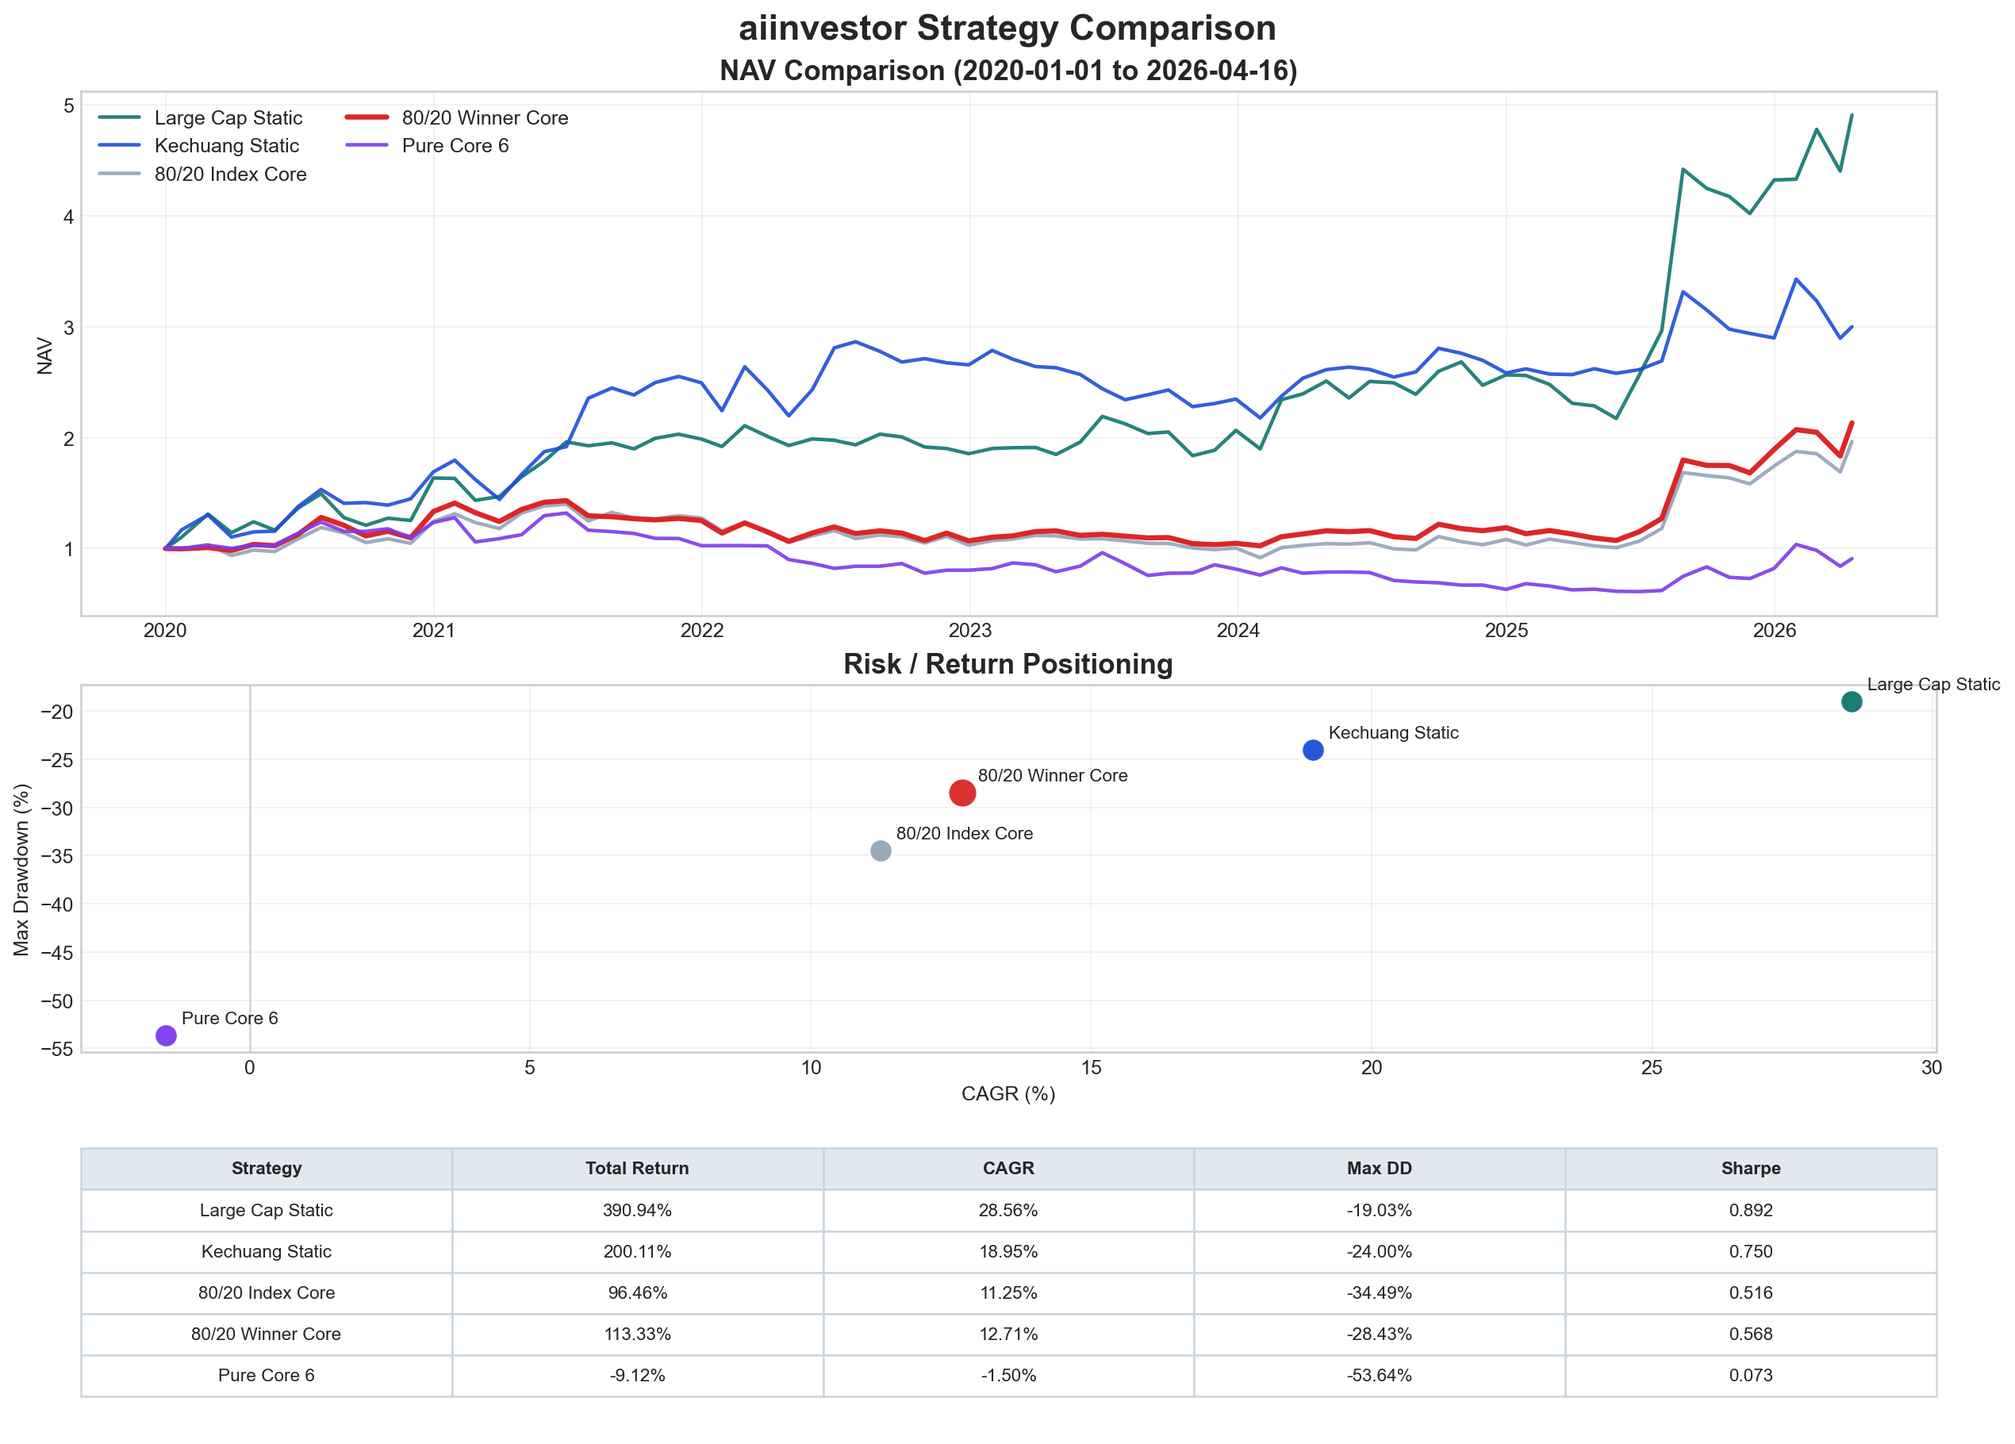
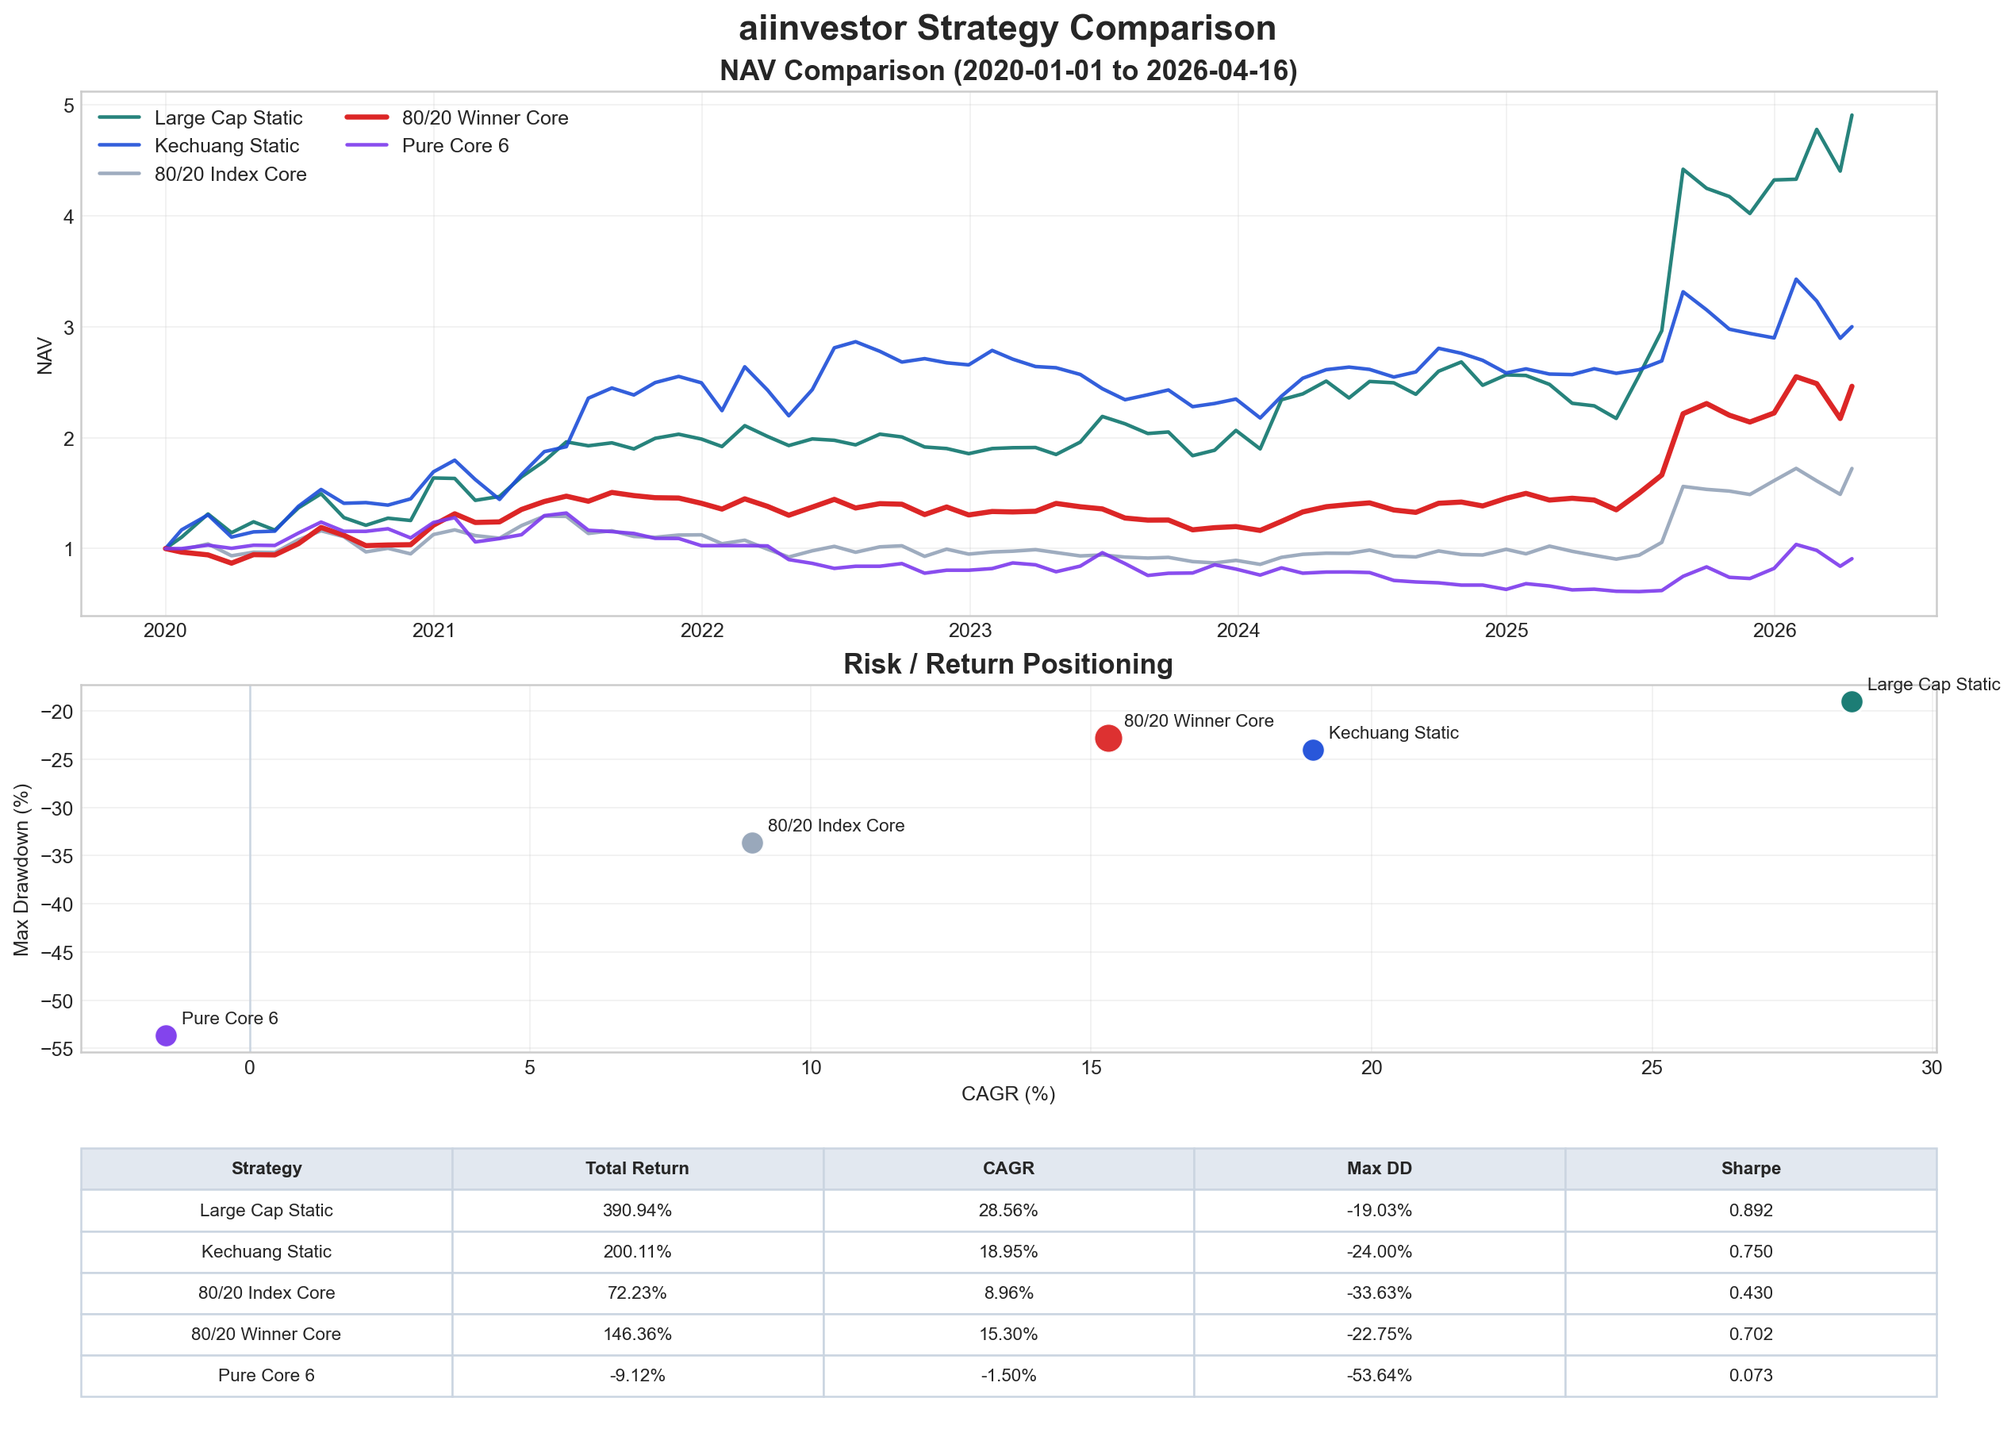
Improve winner core concentration and offline fallback

diff --git a/backtest_marketcap_etf.py b/backtest_marketcap_etf.py
@@ -61,16 +61,19 @@ PROMOTION_MIN_STREAK = 3
 DEMOTION_MIN_STREAK = 2
 PROMOTED_CORE_DEMOTION_MIN_STREAK = 3
 FAST_PROMOTION_MIN_STREAK = 2
-FAST_PROMOTION_PERCENTILE = 0.05
-FAST_PROMOTION_AMOUNT_SURGE_RATIO = 1.20
+FAST_PROMOTION_PERCENTILE = 0.08
+FAST_PROMOTION_AMOUNT_SURGE_RATIO = 1.05
 CORE_MAX_HOLDINGS = 10
-EXPLORE_MAX_HOLDINGS = 20
-SEED_MAX_HOLDINGS = 10
-WINNER_CORE_STABLE_SHARE = 0.65
-WINNER_CORE_PROMOTED_SHARE = 0.35
-STABLE_CORE_MAX_HOLDINGS = 6
-PROMOTED_CORE_MAX_HOLDINGS = 4
-PROMOTED_CORE_STAGE_RAMP = {1: 0.45, 2: 0.75}
+EXPLORE_MAX_HOLDINGS = 12
+SEED_MAX_HOLDINGS = 6
+WINNER_CORE_STABLE_SHARE = 0.35
+WINNER_CORE_PROMOTED_SHARE = 0.65
+STABLE_CORE_MAX_HOLDINGS = 4
+PROMOTED_CORE_MAX_HOLDINGS = 6
+PROMOTED_CORE_STAGE_RAMP = {1: 0.75, 2: 1.00}
+TOTAL_PORTFOLIO_MAX_HOLDINGS = 18
+TOTAL_PORTFOLIO_MIN_WEIGHT = 0.005
+FORCE_EXIT_WEIGHT_THRESHOLD = 0.0005
 MAX_RETRIES = 5
 RETRY_BASE_DELAY = 1.5
 FLOAT_FORMAT = "%.8f"
@@ -236,13 +239,19 @@ def load_or_fetch_trade_calendar(pro, start_date: pd.Timestamp, end_date: pd.Tim
         if cached_start <= start_date and cached_end >= end_date:
             return cached
 
-    fetched = call_tushare_with_retry(
-        pro.trade_cal,
-        exchange="SSE",
-        start_date=start_date.strftime("%Y%m%d"),
-        end_date=end_date.strftime("%Y%m%d"),
-        fields="exchange,cal_date,is_open,pretrade_date",
-    )
+    try:
+        fetched = call_tushare_with_retry(
+            pro.trade_cal,
+            exchange="SSE",
+            start_date=start_date.strftime("%Y%m%d"),
+            end_date=end_date.strftime("%Y%m%d"),
+            fields="exchange,cal_date,is_open,pretrade_date",
+        )
+    except RuntimeError:
+        if not cached.empty:
+            print("[Warn] trade_calendar 增量更新失败，回退使用本地缓存。")
+            return cached.reset_index(drop=True)
+        raise
     fetched["cal_date"] = pd.to_datetime(fetched["cal_date"], format="%Y%m%d", errors="coerce")
     calendar = fetched.sort_values("cal_date").drop_duplicates(subset=["cal_date"]).reset_index(drop=True)
     save_csv(calendar, cache_path)
@@ -268,12 +277,18 @@ def load_or_fetch_daily(pro, ts_code: str, start_date: pd.Timestamp, end_date: p
             return cached.reset_index(drop=True)
         fetch_from = latest_cached + pd.Timedelta(days=1)
 
-    fetched = call_tushare_with_retry(
-        pro.daily,
-        ts_code=ts_code,
-        start_date=fetch_from.strftime("%Y%m%d"),
-        end_date=end_date.strftime("%Y%m%d"),
-    )
+    try:
+        fetched = call_tushare_with_retry(
+            pro.daily,
+            ts_code=ts_code,
+            start_date=fetch_from.strftime("%Y%m%d"),
+            end_date=end_date.strftime("%Y%m%d"),
+        )
+    except RuntimeError:
+        if not cached.empty:
+            print(f"[Warn] {ts_code} daily 增量更新失败，回退使用本地缓存。")
+            return cached.reset_index(drop=True)
+        raise
 
     if not fetched.empty:
         fetched["trade_date"] = pd.to_datetime(fetched["trade_date"], format="%Y%m%d", errors="coerce")
@@ -303,12 +318,18 @@ def load_or_fetch_adj_factor(pro, ts_code: str, start_date: pd.Timestamp, end_da
             return cached.reset_index(drop=True)
         fetch_from = latest_cached + pd.Timedelta(days=1)
 
-    fetched = call_tushare_with_retry(
-        pro.adj_factor,
-        ts_code=ts_code,
-        start_date=fetch_from.strftime("%Y%m%d"),
-        end_date=end_date.strftime("%Y%m%d"),
-    )
+    try:
+        fetched = call_tushare_with_retry(
+            pro.adj_factor,
+            ts_code=ts_code,
+            start_date=fetch_from.strftime("%Y%m%d"),
+            end_date=end_date.strftime("%Y%m%d"),
+        )
+    except RuntimeError:
+        if not cached.empty:
+            print(f"[Warn] {ts_code} adj_factor 增量更新失败，回退使用本地缓存。")
+            return cached.reset_index(drop=True)
+        raise
 
     if not fetched.empty:
         fetched["trade_date"] = pd.to_datetime(fetched["trade_date"], format="%Y%m%d", errors="coerce")
@@ -338,13 +359,19 @@ def load_or_fetch_daily_basic(pro, ts_code: str, start_date: pd.Timestamp, end_d
             return cached.reset_index(drop=True)
         fetch_from = latest_cached + pd.Timedelta(days=1)
 
-    fetched = call_tushare_with_retry(
-        pro.daily_basic,
-        ts_code=ts_code,
-        start_date=fetch_from.strftime("%Y%m%d"),
-        end_date=end_date.strftime("%Y%m%d"),
-        fields="ts_code,trade_date,total_mv",
-    )
+    try:
+        fetched = call_tushare_with_retry(
+            pro.daily_basic,
+            ts_code=ts_code,
+            start_date=fetch_from.strftime("%Y%m%d"),
+            end_date=end_date.strftime("%Y%m%d"),
+            fields="ts_code,trade_date,total_mv",
+        )
+    except RuntimeError:
+        if not cached.empty:
+            print(f"[Warn] {ts_code} daily_basic 增量更新失败，回退使用本地缓存。")
+            return cached.reset_index(drop=True)
+        raise
 
     if not fetched.empty:
         fetched["trade_date"] = pd.to_datetime(fetched["trade_date"], format="%Y%m%d", errors="coerce")
@@ -377,13 +404,19 @@ def load_or_fetch_fina_indicator(pro, ts_code: str, start_date: pd.Timestamp, en
         )
 
     if cached.empty:
-        fetched = call_tushare_with_retry(
-            pro.fina_indicator,
-            ts_code=ts_code,
-            start_date=start_date.strftime("%Y%m%d"),
-            end_date=end_date.strftime("%Y%m%d"),
-            fields="ts_code,ann_date,end_date,roe,grossprofit_margin,debt_to_assets,ocf_to_or,q_dtprofit_yoy",
-        )
+        try:
+            fetched = call_tushare_with_retry(
+                pro.fina_indicator,
+                ts_code=ts_code,
+                start_date=start_date.strftime("%Y%m%d"),
+                end_date=end_date.strftime("%Y%m%d"),
+                fields="ts_code,ann_date,end_date,roe,grossprofit_margin,debt_to_assets,ocf_to_or,q_dtprofit_yoy",
+            )
+        except RuntimeError:
+            if not cached.empty:
+                print(f"[Warn] {ts_code} fina_indicator 增量更新失败，回退使用本地缓存。")
+                return cached.reset_index(drop=True)
+            raise
         if not fetched.empty:
             fetched["ann_date"] = pd.to_datetime(fetched["ann_date"], format="%Y%m%d", errors="coerce")
             fetched["end_date"] = pd.to_datetime(fetched["end_date"], format="%Y%m%d", errors="coerce")
@@ -420,12 +453,18 @@ def load_or_fetch_index_daily(pro, ts_code: str, start_date: pd.Timestamp, end_d
             return cached.reset_index(drop=True)
         fetch_from = latest_cached + pd.Timedelta(days=1)
 
-    fetched = call_tushare_with_retry(
-        pro.index_daily,
-        ts_code=ts_code,
-        start_date=fetch_from.strftime("%Y%m%d"),
-        end_date=end_date.strftime("%Y%m%d"),
-    )
+    try:
+        fetched = call_tushare_with_retry(
+            pro.index_daily,
+            ts_code=ts_code,
+            start_date=fetch_from.strftime("%Y%m%d"),
+            end_date=end_date.strftime("%Y%m%d"),
+        )
+    except RuntimeError:
+        if not cached.empty:
+            print(f"[Warn] {ts_code} index_daily 增量更新失败，回退使用本地缓存。")
+            return cached.reset_index(drop=True)
+        raise
     if not fetched.empty:
         fetched["trade_date"] = pd.to_datetime(fetched["trade_date"], format="%Y%m%d", errors="coerce")
         if "close" in fetched.columns:
@@ -461,12 +500,18 @@ def load_or_fetch_index_weight(pro, index_code: str, start_date: pd.Timestamp, e
         cursor = max(cursor, (cached_max + pd.Timedelta(days=1)).normalize())
     while cursor <= required_end_date:
         chunk_end = min(pd.Timestamp(cursor.year, 12, 31), required_end_date)
-        fetched = call_tushare_with_retry(
-            pro.index_weight,
-            index_code=index_code,
-            start_date=cursor.strftime("%Y%m%d"),
-            end_date=chunk_end.strftime("%Y%m%d"),
-        )
+        try:
+            fetched = call_tushare_with_retry(
+                pro.index_weight,
+                index_code=index_code,
+                start_date=cursor.strftime("%Y%m%d"),
+                end_date=chunk_end.strftime("%Y%m%d"),
+            )
+        except RuntimeError:
+            if not cached.empty:
+                print(f"[Warn] {index_code} index_weight 增量更新失败，回退使用本地缓存。")
+                return cached.reset_index(drop=True)
+            raise
         if not fetched.empty:
             fetched["trade_date"] = pd.to_datetime(fetched["trade_date"], format="%Y%m%d", errors="coerce")
             frames.append(fetched)
@@ -1211,7 +1256,7 @@ def build_core_explore_target_weights(
         quality_quantile=CORE_QUALITY_QUANTILE,
         max_holdings=STABLE_CORE_MAX_HOLDINGS,
         breakout_signal=breakout_signal,
-        base_weight_mode="base",
+        base_weight_mode="hybrid",
     ) if not stable_core_raw.empty else (
         pd.Series(dtype=float),
         {
@@ -1338,12 +1383,24 @@ def build_core_explore_target_weights(
     )
 
     combined = pd.concat([core_weights, explore_weights, seed_weights]).groupby(level=0).sum().sort_values(ascending=False)
+    combined = enforce_total_portfolio_constraints(
+        combined_weights=combined,
+        protected_codes=set(core_stats["selected_codes"]),
+        max_holdings=TOTAL_PORTFOLIO_MAX_HOLDINGS,
+        min_weight=TOTAL_PORTFOLIO_MIN_WEIGHT,
+    )
+    final_selected_codes = set(combined.index)
+    final_core_selected_codes = set(core_stats["selected_codes"]) & final_selected_codes
+    final_stable_core_selected_codes = set(stable_core_stats["selected_codes"]) & final_selected_codes
+    final_promoted_core_selected_codes = set(promoted_core_stats["selected_codes"]) & final_selected_codes
+    final_explore_selected_codes = set(explore_stats["selected_codes"]) & final_selected_codes
+    final_seed_selected_codes = set(seed_stats["selected_codes"]) & final_selected_codes
     return combined, {
-        "core_selected_count": core_stats["selected_count"],
-        "stable_core_selected_count": stable_core_stats["selected_count"],
-        "promoted_core_selected_count": promoted_core_stats["selected_count"],
-        "explore_selected_count": explore_stats["selected_count"],
-        "seed_selected_count": seed_stats["selected_count"],
+        "core_selected_count": len(final_core_selected_codes),
+        "stable_core_selected_count": len(final_stable_core_selected_codes),
+        "promoted_core_selected_count": len(final_promoted_core_selected_codes),
+        "explore_selected_count": len(final_explore_selected_codes),
+        "seed_selected_count": len(final_seed_selected_codes),
         "core_buy_candidate_count": core_stats["buy_candidate_count"],
         "stable_core_buy_candidate_count": stable_core_stats["buy_candidate_count"],
         "promoted_core_buy_candidate_count": promoted_core_stats["buy_candidate_count"],
@@ -1364,11 +1421,11 @@ def build_core_explore_target_weights(
         "promoted_core_available_count": int(len(promoted_core_raw)),
         "explore_available_count": int(len(explore_raw)),
         "seed_available_count": int(len(seed_raw)),
-        "core_selected_codes": core_stats["selected_codes"],
-        "stable_core_selected_codes": stable_core_stats["selected_codes"],
-        "promoted_core_selected_codes": promoted_core_stats["selected_codes"],
-        "explore_selected_codes": explore_stats["selected_codes"],
-        "seed_selected_codes": seed_stats["selected_codes"],
+        "core_selected_codes": final_core_selected_codes,
+        "stable_core_selected_codes": final_stable_core_selected_codes,
+        "promoted_core_selected_codes": final_promoted_core_selected_codes,
+        "explore_selected_codes": final_explore_selected_codes,
+        "seed_selected_codes": final_seed_selected_codes,
         "core_keep_candidates": core_stats["keep_candidates"],
         "stable_core_keep_candidates": stable_core_stats["keep_candidates"],
         "promoted_core_keep_candidates": promoted_core_stats["keep_candidates"],
@@ -1571,6 +1628,33 @@ def apply_weight_cap_with_redistribution(raw_weights: pd.Series, cap: float = WE
     return adjusted[adjusted > 1e-12].sort_values(ascending=False), cash_weight
 
 
+def enforce_total_portfolio_constraints(
+    combined_weights: pd.Series,
+    protected_codes: Set[str],
+    max_holdings: int,
+    min_weight: float,
+) -> pd.Series:
+    if combined_weights.empty:
+        return combined_weights
+
+    positive = combined_weights[combined_weights > 1e-12].sort_values(ascending=False)
+    if positive.empty:
+        return positive
+
+    protected_series = positive.loc[positive.index.isin(protected_codes)].sort_values(ascending=False)
+    non_protected = positive.loc[~positive.index.isin(protected_codes)].sort_values(ascending=False)
+    non_protected = non_protected[non_protected >= min_weight]
+
+    remaining_slots = max(0, max_holdings - len(protected_series))
+    kept = pd.concat([protected_series, non_protected.head(remaining_slots)]).groupby(level=0).sum()
+    kept = kept.sort_values(ascending=False)
+
+    total_target = float(positive.sum())
+    if kept.empty or total_target <= 0:
+        return pd.Series(dtype=float)
+    return normalize_positive_weights(kept) * total_target
+
+
 def compute_rebalance_trades(
     current_values: pd.Series,
     current_cash: float,
@@ -1627,7 +1711,13 @@ def compute_rebalance_trades(
         desired_cash = cash_share * free_capital
         trade_deltas = desired_tradable_values - current_tradable_values
         # 调仓缓冲：目标权重变化不足 1% 的持仓不交易，避免高频小额换手。
-        frozen = (trade_deltas.abs() / pre_trade_nav) < MIN_WEIGHT_TRADE_THRESHOLD if pre_trade_nav > 0 else trade_deltas * 0 == 0
+        if pre_trade_nav > 0:
+            current_weight = current_tradable_values / pre_trade_nav
+            desired_weight = desired_tradable_values / pre_trade_nav
+            force_exit = (desired_weight <= 1e-12) & (current_weight >= FORCE_EXIT_WEIGHT_THRESHOLD)
+            frozen = ((trade_deltas.abs() / pre_trade_nav) < MIN_WEIGHT_TRADE_THRESHOLD) & (~force_exit)
+        else:
+            frozen = trade_deltas * 0 == 0
         trade_deltas.loc[frozen] = 0.0
         desired_tradable_values = current_tradable_values + trade_deltas
         desired_cash = pre_trade_nav - locked_value - float(desired_tradable_values.sum())
@@ -2399,6 +2489,9 @@ def run_backtest(
         "winner_core_promoted_share": WINNER_CORE_PROMOTED_SHARE,
         "stable_core_max_holdings": STABLE_CORE_MAX_HOLDINGS,
         "promoted_core_max_holdings": PROMOTED_CORE_MAX_HOLDINGS,
+        "total_portfolio_max_holdings": TOTAL_PORTFOLIO_MAX_HOLDINGS,
+        "total_portfolio_min_weight": TOTAL_PORTFOLIO_MIN_WEIGHT,
+        "force_exit_weight_threshold": FORCE_EXIT_WEIGHT_THRESHOLD,
         "pure_core_observation_min_streak": PURE_CORE_OBSERVATION_MIN_STREAK,
         "pure_core_observation_buffer_multiplier": PURE_CORE_OBSERVATION_BUFFER_MULTIPLIER,
         "market_index_code": MARKET_INDEX_CODE,

diff --git a/README.md b/README.md
@@ -15,11 +15,11 @@ The current best-performing dynamic-market-discovery version in this project is:
 
 - `核心80_探索20_总市值底座_胜出者核心`
 - sample period: `2020-01-01` to `2026-04-16`
-- total return: `113.33%`
-- CAGR: `12.71%`
-- max drawdown: `-28.43%`
-- annual volatility: `26.76%`
-- Sharpe ratio: `0.5684`
+- total return: `146.36%`
+- CAGR: `15.30%`
+- max drawdown: `-22.75%`
+- annual volatility: `24.28%`
+- Sharpe ratio: `0.7018`
 
 This strategy uses:
 
@@ -141,11 +141,11 @@ The project has already been initialized as a git repository and synced to GitHu
 
 以 `核心80_探索20_总市值底座_指数核心` 作为优化前基线，对比优化后的 `核心80_探索20_总市值底座_胜出者核心`：
 
-- 累计收益从 `96.46%` 提升到 `113.33%`
-- CAGR 从 `11.25%` 提升到 `12.71%`
-- 最大回撤从 `-34.49%` 改善到 `-28.43%`
-- 夏普从 `0.5158` 提升到 `0.5684`
-- 年均换手从 `2.42` 降到 `2.25`
+- 累计收益从 `72.23%` 提升到 `146.36%`
+- CAGR 从 `8.96%` 提升到 `15.30%`
+- 最大回撤从 `-33.63%` 改善到 `-22.75%`
+- 夏普从 `0.4303` 提升到 `0.7018`
+- 最新组合持仓数从 `19` 只扩到 `22` 只，但权重集中在更明确的 winner_core 上
 
 这说明这 4 项优化在当前动态发现框架里是有效的，既提升了收益，也改善了回撤和效率。
 
